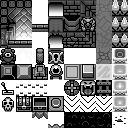
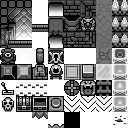
Improve & Optimize Pits
instead of having the pits animated thru 16x16 frames, use a single black frame.
then add a bubble particle over the black frame, varying the bubble's position and timing.
this adds more variation to the pits animation, and frees 2 frames in dungeon sheet.

reduced pit sprite animation to a single frame in dungeon sheet.
updated GameObjAnimList to reflect single frame pit sprite.

created pit bubble sprite animation in main sheet.
added ParticleBubble value to ObjType enum.
added ParticleBubble animList.
added path for ParticleBubble to Obj.SetType().

updated Functions_Ai.HandleObj() with path for PitAnimated obj.
this randomly calls SpawnEntity(), passing bubble particle and pit references.
updated SpawnEntity() with path for PitAnimated.
this randomly offsets the bubble particle from center of pit, adding position variation.
updated the sorting values of pits, bubbles, pit teeth, and bridges.
bubbles sort over pits. bridges sort over bubbles. pit teeth sort over bridges.
playtested, working as expected, looking great.

Changed region(s): [[0.5625, 0.875, 0.875, 1.0], [0.5, 0.9375, 0.5625, 1.0]]

diff --git a/GameClasses/Functions_GameObject.cs b/GameClasses/Functions_GameObject.cs
@@ -221,15 +221,16 @@ namespace DungeonRun
             else if (Type == ObjType.PitAnimated)
             {
                 //this pit interacts with actor
-                Obj.compSprite.zOffset = -40; //sort under pit decorations
+                Obj.compSprite.zOffset = -64; //sort under pit teeth
                 Obj.compCollision.offsetX = -4; Obj.compCollision.offsetY = -4;
                 Obj.compCollision.rec.Width = 8; Obj.compCollision.rec.Height = 8;
                 Obj.compCollision.blocking = false;
                 Obj.canBeSaved = true;
+                Obj.getsAI = true;
             }
             else if (Type == ObjType.PitTop || Type == ObjType.PitBottom)
-            {   //this is pit decoration
-                Obj.compSprite.zOffset = -32; //sort to floor
+            {
+                Obj.compSprite.zOffset = -60; //sort above pits & pit bubbles
                 Obj.compCollision.rec.Width = 16; Obj.compCollision.rec.Height = 8;
                 if (Type == ObjType.PitBottom) { Obj.compCollision.offsetY = 4; }
                 Obj.compCollision.blocking = false;
@@ -386,9 +387,15 @@ namespace DungeonRun
                 Obj.compCollision.blocking = false;
                 Obj.canBeSaved = true;
             }
-            else if (Type == ObjType.Switch || Type == ObjType.Bridge)
+            else if (Type == ObjType.Switch)
             {
                 Obj.compSprite.zOffset = -32; //sort to floor
+                Obj.compCollision.blocking = false;
+                Obj.canBeSaved = true;
+            }
+            else if (Type == ObjType.Bridge)
+            {
+                Obj.compSprite.zOffset = -62; //sort to floor
                 Obj.compCollision.blocking = false;
                 Obj.canBeSaved = true;
             }
@@ -587,6 +594,15 @@ namespace DungeonRun
                 Obj.group = ObjGroup.Particle;
                 Obj.lifetime = 24; //in frames
                 Obj.compAnim.speed = 6; //in frames
+            }
+            else if (Type == ObjType.ParticleBubble)
+            {
+                Obj.compSprite.cellSize.X = 8; Obj.compSprite.cellSize.Y = 8; //nonstandard size
+                Obj.compSprite.zOffset = -63; //sort over pits, under pit teeth
+                Obj.group = ObjGroup.Particle;
+                Obj.lifetime = 48; //in frames
+                Obj.compAnim.speed = 12; //in frames
+                Obj.compAnim.loop = false;
             }
 
 

diff --git a/GameClasses/WidgetObjectTools.cs b/GameClasses/WidgetObjectTools.cs
@@ -138,15 +138,15 @@ namespace DungeonRun
                         else if (j == 3) { Functions_GameObject.SetType(obj, ObjType.TorchUnlit); }
                         else if (j == 4) { Functions_GameObject.SetType(obj, ObjType.TorchLit); }
                     }
-                    else if (i == 5) //sixth row
+                    else if (i == 5) //sixth row - Pits and Pit Accessories
                     {
-                        if (j == 0) { Functions_GameObject.SetType(obj, ObjType.PitAnimated); }
-                        else if (j == 1) { Functions_GameObject.SetType(obj, ObjType.PitTop); }
-                        else if (j == 2) { Functions_GameObject.SetType(obj, ObjType.PitBottom); }
-                        else if (j == 3) { Functions_GameObject.SetType(obj, ObjType.PitTrapReady); }
-                        else if (j == 4) { Functions_GameObject.SetType(obj, ObjType.Bridge); }
+                        if (j == 0) { Functions_GameObject.SetType(obj, ObjType.PitTrapReady); }
+                        else if (j == 1) { Functions_GameObject.SetType(obj, ObjType.PitAnimated); }
+                        else if (j == 2) { Functions_GameObject.SetType(obj, ObjType.Bridge); }
+                        else if (j == 3) { Functions_GameObject.SetType(obj, ObjType.PitTop); }
+                        else if (j == 4) { Functions_GameObject.SetType(obj, ObjType.PitBottom); }
                     }
-                    else if (i == 6) //seventh row - projectiles
+                    else if (i == 6) //seventh row - Projectiles
                     {
                         if (j == 0) { Functions_GameObject.SetType(obj, ObjType.ProjectileSpikeBlock); }
                         //else if (j == 1) { Functions_GameObject.SetType(obj, ObjType.ProjectileSpikeBlock); }

diff --git a/GameClasses/Functions_GameObjectAnimList.cs b/GameClasses/Functions_GameObjectAnimList.cs
@@ -77,7 +77,7 @@ namespace DungeonRun
                 #region Editor Room Objects
 
                 //PitAnimated
-                new List<Byte4> { new Byte4(4, 7, 0, 0), new Byte4(5, 7, 0, 0), new Byte4(6, 7, 0, 0) },
+                new List<Byte4> { new Byte4(4, 7, 0, 0) },
                 //PitTop
                 new List<Byte4> { new Byte4(2, 7, 0, 0) },
                 //PitBottom
@@ -216,6 +216,8 @@ namespace DungeonRun
                 new List<Byte4> { new Byte4(5, 1, 0, 0), new Byte4(5, 1, 0, 0), new Byte4(6, 1, 0, 0), new Byte4(7, 1, 0, 0) },
                 //ParticleHitSparkle
                 new List<Byte4> { new Byte4(8, 1, 0, 0), new Byte4(9, 1, 0, 0) },
+                //ParticleBubble
+                new List<Byte4> { new Byte4(6, 0, 0, 0), new Byte4(7, 0, 0, 0), new Byte4(8, 0, 0, 0), new Byte4(9, 0, 0, 0) },
 
                 //ParticleMapFlag
                 new List<Byte4> { new Byte4(16, 0, 0, 0), new Byte4(17, 0, 0, 0), new Byte4(18, 0, 0, 0), new Byte4(19, 0, 0, 0) },

diff --git a/GameClasses/Functions_Entity.cs b/GameClasses/Functions_Entity.cs
@@ -67,6 +67,19 @@ namespace DungeonRun
             #endregion
 
 
+            #region Pit
+
+            else if(Object.type == ObjType.PitAnimated)
+            {   //randomly offset where the bubble particle is placed
+                posRef.X += 4; posRef.Y += 4; //because bubble is 8x8 size
+                posRef.X += Functions_Random.Int(-4, 5);
+                posRef.Y += Functions_Random.Int(-4, 5);
+                direction = Direction.None;
+            }
+
+            #endregion
+
+
             #region SpikeBlock
 
             else if(Object.type == ObjType.ProjectileSpikeBlock)

diff --git a/GameClasses/Functions_Ai.cs b/GameClasses/Functions_Ai.cs
@@ -133,6 +133,11 @@ namespace DungeonRun
                 if (Functions_Random.Int(0, 2000) > 1998) //rarely shoots
                 { Functions_Entity.SpawnEntity(ObjType.ProjectileArrow, Obj); }
             }
+            else if(Obj.type == ObjType.PitAnimated)
+            {
+                if (Functions_Random.Int(0, 500) > 495) //occasionally bubbles
+                { Functions_Entity.SpawnEntity(ObjType.ParticleBubble, Obj); }
+            }
         }
 
     }

diff --git a/GameClasses/Enumerators.cs b/GameClasses/Enumerators.cs
@@ -89,7 +89,7 @@ namespace DungeonRun
         ProjectileSword, ProjectileFireball, ProjectileBomb, ProjectileExplosion, ProjectileArrow,
         ProjectileSpikeBlock,
         //Particles - small
-        ParticleDashPuff, ParticleSmokePuff, ParticleHitSparkle,
+        ParticleDashPuff, ParticleSmokePuff, ParticleHitSparkle, ParticleBubble,
         //Particles - map
         ParticleMapFlag, ParticleMapWave, ParticleMapCampfire,
         //
